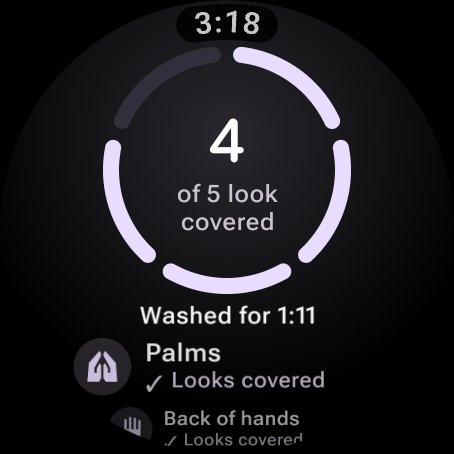
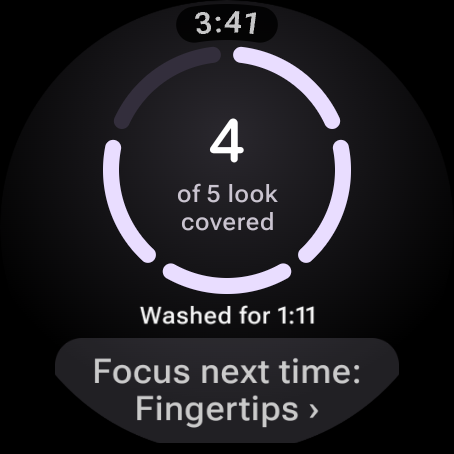
feat(ui): coaching critique fixes, why lines, cancel handling
Target check 'Still to do', Focus Step card above rows, covered Steps collapsed,
technique line on the guide, label/value Credits, toast on cancelled Wash.
Fix Wash screen stuck on stopping after a cancel and dead Wash screen after
backing out of a guide. Retake docs/ux screenshots.

Changed region(s): [[0.1233, 0.7401, 0.8943, 0.9868], [0.4934, 0.0, 0.5859, 0.0925]]

diff --git a/wear/src/main/java/com/hapticwash/ui/MainActivity.kt b/wear/src/main/java/com/hapticwash/ui/MainActivity.kt
@@ -3,6 +3,7 @@ package com.hapticwash.ui
 import android.Manifest
 import android.app.PendingIntent
 import android.content.Context
+import android.widget.Toast
 import android.content.Intent
 import android.content.res.Resources
 import android.content.pm.PackageManager
@@ -349,6 +350,7 @@ private object StartOrigin {
 @Composable
 fun App(startRequests: () -> Int = { 0 }, openRequest: () -> Long? = { null }, onOpened: () -> Unit = {}, ambient: () -> Ambient? = { null }) {
     val nav = rememberSwipeDismissableNavController()
+    val context = LocalContext.current
     val running by WashService.status.collectAsState()
     val ambientNow = ambient().takeIf { running.running }
     var answered by rememberSaveable { mutableIntStateOf(0) }
@@ -378,7 +380,10 @@ fun App(startRequests: () -> Int = { 0 }, openRequest: () -> Long? = { null }, o
                         onAutoStarted = { answered = startRequests() },
                     )
                 }
-                composable(Routes.WASH) { WashScreen(onGuide = { nav.navigate(Routes.guide(it)) }) }
+                composable(Routes.WASH) { WashScreen(onGuide = { nav.navigate(Routes.guide(it)) }, onCancelled = {
+                    nav.popBackStack(Routes.START, inclusive = false)
+                    Toast.makeText(context, R.string.wash_cancelled, Toast.LENGTH_LONG).show()
+                }) }
                 composable(Routes.HISTORY) { HistoryScreen(onOpen = { nav.navigate(Routes.summary(it)) }) }
                 composable(Routes.SUMMARY) { SummaryScreen(it.arguments?.getString("id")?.toLongOrNull(), onGuide = { l -> nav.navigate(Routes.guide(l)) }) }
                 composable(Routes.GUIDE) { GuideScreen(it.arguments?.getString("label")?.toIntOrNull()) }
@@ -616,14 +621,16 @@ private fun StartScreen(onWash: () -> Unit, onHistory: () -> Unit, onSettings: (
  * new screen, so the ring and the stop square can carry across it. Swiping back from either goes to Start.
  */
 @Composable
-private fun WashScreen(onGuide: (Int) -> Unit) {
-    var result by remember { mutableStateOf<Long?>(null) }
-    val leave = remember { Animatable(0f) }
+private fun WashScreen(onGuide: (Int) -> Unit, onCancelled: () -> Unit = {}) {
+    // Saved, so coming back from a Step guide opened off this Summary lands on the Summary, not a Wash that has ended.
+    var result by rememberSaveable { mutableStateOf<Long?>(null) }
+    val fresh = remember { result == null } // false when restored: no ring morph replayed
+    val leave = remember { Animatable(if (result != null) 1f else 0f) }
     LaunchedEffect(result) { if (result != null) leave.animateTo(1f, tween(200)) }
     Box(Modifier.fillMaxSize()) {
         // Gone once faded: nothing under the Summary should take a press.
-        if (leave.value < 1f) Box(Modifier.fillMaxSize().graphicsLayer { alpha = 1 - leave.value }) { WashBody(onEnd = { result = it }, handedOver = result != null) }
-        result?.let { SummaryScreen(it, fromWash = true, onGuide = onGuide) }
+        if (leave.value < 1f) Box(Modifier.fillMaxSize().graphicsLayer { alpha = 1 - leave.value }) { WashBody(onEnd = { result = it }, handedOver = result != null, onCancelled = onCancelled) }
+        result?.let { SummaryScreen(it, fromWash = fresh, onGuide = onGuide) }
         if (result == null) TargetCheckCard()
     }
 }
@@ -643,17 +650,17 @@ private fun TargetCheckCard() {
     if (undetected.isEmpty() || dismissed) return
     val steps = stringArrayResource(R.array.steps)
     Column(
-        Modifier.fillMaxSize().background(MaterialTheme.colorScheme.background).clickable { dismissed = true }.padding(24.dp),
-        verticalArrangement = Arrangement.spacedBy(6.dp, Alignment.CenterVertically),
+        Modifier.fillMaxSize().background(MaterialTheme.colorScheme.background).clickable { dismissed = true }.padding(horizontal = 24.dp, vertical = 36.dp),
+        verticalArrangement = Arrangement.spacedBy(10.dp, Alignment.CenterVertically),
         horizontalAlignment = Alignment.CenterHorizontally,
     ) {
-        Text(stringResource(R.string.status_not_detected), style = MaterialTheme.typography.titleSmall, textAlign = TextAlign.Center)
+        Text(stringResource(R.string.target_todo), color = MaterialTheme.colorScheme.onSurfaceVariant, style = MaterialTheme.typography.labelMedium, textAlign = TextAlign.Center)
         // One left edge for the icons, so the names line up whatever their width.
         Column(verticalArrangement = Arrangement.spacedBy(6.dp), horizontalAlignment = Alignment.Start) {
             undetected.forEach {
                 Row(horizontalArrangement = Arrangement.spacedBy(8.dp), verticalAlignment = Alignment.CenterVertically) {
-                    Icon(painterResource(STEP_ICONS[it - 1]), contentDescription = null, Modifier.size(24.dp))
-                    Text(steps[it - 1], style = MaterialTheme.typography.bodyMedium)
+                    Icon(painterResource(STEP_ICONS[it - 1]), contentDescription = null, Modifier.size(28.dp), tint = MaterialTheme.colorScheme.primary)
+                    Text(steps[it - 1], style = MaterialTheme.typography.titleMedium)
                 }
             }
         }
@@ -661,10 +668,11 @@ private fun TargetCheckCard() {
 }
 
 private const val TARGET_CARD_MS = 6_000L
+private const val CANCEL_GRACE_MS = 600L
 
 /** Elapsed time, optional progress ring, hold to stop. Never names a Step. */
 @Composable
-private fun WashBody(onEnd: (Long) -> Unit, handedOver: Boolean) {
+private fun WashBody(onEnd: (Long) -> Unit, handedOver: Boolean, onCancelled: () -> Unit) {
     val context = LocalContext.current
     val status by WashService.status.collectAsState()
     val last by WashService.lastWash.collectAsState()
@@ -674,6 +682,15 @@ private fun WashBody(onEnd: (Long) -> Unit, handedOver: Boolean) {
         // The save is quick; a hold gets a beat for its commit to be seen first.
         if (StopHold.committed) delay((COMMIT_BEAT_MS - (System.currentTimeMillis() - StopHold.committedAt)).coerceAtLeast(0))
         onEnd(ended.id)
+    }
+    // A Wash that never began is cancelled and saved nowhere, so no Summary follows: the service just stops running. Leave then, or the stop hold waits for a save that never comes.
+    var sawRunning by remember { mutableStateOf(false) }
+    val handed by rememberUpdatedState(handedOver)
+    LaunchedEffect(status.running) {
+        if (status.running) { sawRunning = true; return@LaunchedEffect }
+        if (!sawRunning) return@LaunchedEffect
+        delay(CANCEL_GRACE_MS) // a normal end publishes its Wash first and the effect above hands over
+        if (!handed) onCancelled()
     }
     val ring = remember { Settings(context).progressRing }
     // The Summary draws the ring and the stop square from here on, shrinking them into its own; these must not double them.
@@ -930,8 +947,24 @@ private fun SummaryScreen(id: Long?, fromWash: Boolean = false, onGuide: (Int) -
                 !wash.coverageShown -> item { Notice(stringResource(R.string.too_short), morphContent(spec)) }
                 else -> {
                     item { Notice(stringResource(if (allCovered(wash.coverage)) R.string.washed_for_all else R.string.washed_for, duration(wash.durationS)), morphContent(spec)) }
-                    items(wash.coverage.size) { i ->
-                        val c = wash.coverage[i]
+                    // The Focus Step first: one estimate-language card, opening the same guide as a row.
+                    focus?.let { label ->
+                        item {
+                            Box(
+                                morphContent(spec).clip(RoundedCornerShape(16.dp)).background(colors.primary.copy(alpha = 0.18f))
+                                    .clickable(onClickLabel = stringResource(R.string.open_guide, steps[label - 1]), role = Role.Button) { onGuide(label) }
+                                    .heightIn(min = 48.dp).padding(horizontal = 16.dp, vertical = 8.dp),
+                                contentAlignment = Alignment.Center,
+                            ) {
+                                Text("${stringResource(R.string.focus_step, steps[label - 1])} ›", style = MaterialTheme.typography.labelLarge, textAlign = TextAlign.Center)
+                            }
+                        }
+                    }
+                    // Only Steps that need attention get a row; the covered ones are one line, since they all say the same.
+                    // Everything covered: all five stay as rows, so every Step's guide is still one tap away.
+                    val attention = wash.coverage.filter { it.status != StepStatus.OK }.ifEmpty { wash.coverage }
+                    items(attention.size) { i ->
+                        val c = attention[i]
                         val rise = with(LocalDensity.current) { 6.dp.toPx() }
                         // Each Step has its own glyph, so a row is found by shape; colour only adds emphasis.
                         Row(
@@ -942,11 +975,7 @@ private fun SummaryScreen(id: Long?, fromWash: Boolean = false, onGuide: (Int) -
                             }.clip(RoundedCornerShape(16.dp)).clickable(onClickLabel = stringResource(R.string.open_guide, steps[c.label - 1]), role = Role.Button) { onGuide(c.label) }
                                 .heightIn(min = 48.dp).padding(horizontal = 16.dp).semantics(mergeDescendants = true) {},
                             horizontalArrangement = Arrangement.spacedBy(8.dp), verticalAlignment = Alignment.CenterVertically) {
-                            // A soft chip behind the glyph, tinted only when the Step looks covered; the words and the mark say the rest.
-                            Box(
-                                Modifier.size(32.dp).clip(CircleShape).background(if (c.status == StepStatus.OK) colors.primary.copy(alpha = 0.18f) else colors.surfaceContainer).clearAndSetSemantics {},
-                                contentAlignment = Alignment.Center,
-                            ) {
+                            Box(Modifier.size(32.dp).clip(CircleShape).background(if (c.status == StepStatus.OK) colors.primary.copy(alpha = 0.18f) else colors.surfaceContainer).clearAndSetSemantics {}, contentAlignment = Alignment.Center) {
                                 Icon(painterResource(STEP_ICONS[c.label - 1]), null, Modifier.size(20.dp), tint = if (c.status == StepStatus.OK) colors.primary else colors.onSurfaceVariant)
                             }
                             Column {
@@ -959,18 +988,9 @@ private fun SummaryScreen(id: Long?, fromWash: Boolean = false, onGuide: (Int) -
                             }
                         }
                     }
-                    // The Focus Step: at most one estimate-language line, opening the same guide as its row.
-                    focus?.let { label ->
-                        item {
-                            Box(
-                                morphContent(spec).clip(RoundedCornerShape(16.dp))
-                                    .clickable(onClickLabel = stringResource(R.string.open_guide, steps[label - 1]), role = Role.Button) { onGuide(label) }
-                                    .heightIn(min = 48.dp).padding(horizontal = 16.dp, vertical = 8.dp),
-                                contentAlignment = Alignment.Center,
-                            ) {
-                                Text(stringResource(R.string.focus_step, steps[label - 1]), color = colors.onSurfaceVariant, style = MaterialTheme.typography.bodySmall, textAlign = TextAlign.Center)
-                            }
-                        }
+                    val covered = wash.coverage.filter { it.status == StepStatus.OK }
+                    if (covered.isNotEmpty() && attention.size < wash.coverage.size) item {
+                        Text(stringResource(R.string.covered_steps, covered.joinToString(", ") { steps[it.label - 1] }), morphContent(spec), color = colors.onSurfaceVariant, style = MaterialTheme.typography.bodySmall, textAlign = TextAlign.Center)
                     }
                 }
             }
@@ -997,13 +1017,14 @@ private fun GuideScreen(label: Int?) {
     val colors = MaterialTheme.colorScheme
     ScreenScaffold {
         Column(
-            Modifier.fillMaxSize().padding(horizontal = 28.dp).semantics(mergeDescendants = true) {},
+            Modifier.fillMaxSize().padding(start = 28.dp, end = 28.dp, top = 22.dp, bottom = 8.dp).semantics(mergeDescendants = true) {},
             verticalArrangement = Arrangement.spacedBy(8.dp, Alignment.CenterVertically),
             horizontalAlignment = Alignment.CenterHorizontally,
         ) {
             Text(stringArrayResource(R.array.steps)[label - 1], style = MaterialTheme.typography.titleMedium, textAlign = TextAlign.Center)
-            Image(painterResource(STEP_ART[label - 1]), null, Modifier.size(100.dp).clip(CircleShape))
-            Text(stringArrayResource(R.array.step_whys)[label - 1], color = colors.onSurfaceVariant, style = MaterialTheme.typography.bodySmall, textAlign = TextAlign.Center)
+            Image(painterResource(STEP_ART[label - 1]), null, Modifier.size(68.dp).clip(CircleShape))
+            Text(stringArrayResource(R.array.step_how)[label - 1], style = MaterialTheme.typography.bodyMedium, textAlign = TextAlign.Center)
+            Text(stringArrayResource(R.array.step_whys)[label - 1], color = colors.onSurfaceVariant, style = MaterialTheme.typography.labelSmall, textAlign = TextAlign.Center)
         }
     }
 }
@@ -1057,7 +1078,14 @@ private fun CreditsScreen() {
     ListScreen(backdrop = false) { spec ->
         item { Header(spec, stringResource(R.string.credits)) }
         // The URL has no spaces; a zero-width space after "/" and "_" lets it wrap on the round edge instead of mid-word.
-        item { Notice(stringResource(R.string.credits_body).replace("/", "/\u200B").replace("_", "_\u200B"), morphContent(spec)) }
+        item {
+            Column(morphContent(spec).fillMaxWidth().padding(horizontal = 12.dp), verticalArrangement = Arrangement.spacedBy(2.dp)) {
+                Text(stringResource(R.string.credits_illustrations), color = MaterialTheme.colorScheme.onSurfaceVariant, style = MaterialTheme.typography.labelSmall)
+                Text(stringResource(R.string.credits_author), style = MaterialTheme.typography.bodyMedium)
+                Text(stringResource(R.string.credits_licence), style = MaterialTheme.typography.bodySmall)
+                Text(stringResource(R.string.credits_body).substringAfter("cropped. ").substringAfter("recortadas. ").replace("/", "/\u200B").replace("_", "_\u200B"), Modifier.padding(top = 6.dp), color = MaterialTheme.colorScheme.onSurfaceVariant, style = MaterialTheme.typography.labelSmall)
+            }
+        }
     }
 }
 

diff --git a/wear/src/test/java/com/hapticwash/ui/StepGuideTest.kt b/wear/src/test/java/com/hapticwash/ui/StepGuideTest.kt
@@ -40,24 +40,24 @@ class StepGuideTest {
     }
 
     @Test
-    fun whyLinesAreShortEvidenceLanguage() {
+    fun whyLinesSayWhyTheStepMattersInPlainLanguage() {
         val lines = array("step_whys")
         assertEquals(5, lines.size)
         lines.forEach { assertTrue("too long: $it", it.length <= 60) }
-        lines.drop(1).forEach { assertTrue("no study named: $it", "study" in it) }
-        assertFalse("Fingertips is contested (Szilagyi 2013)", lines[4].contains("most", ignoreCase = true))
-        assertTrue(lines[3].startsWith("Thumbs"))
+        lines.forEach { assertFalse("no study statistics: $it", "study" in it || Regex("""\d""").containsMatchIn(it)) }
+        assertTrue("Thumbs line names thumbs", "Thumbs" in lines[3])
+        assertTrue("Between fingers line names the fingers", "between fingers" in lines[2])
     }
 
     @Test
     fun spanishWhyLinesMatchTheAgreedWording() {
         assertEquals(
             listOf(
-                "Palmas: casi nunca se omiten, pero es solo el primer paso",
-                "Dorso: en un estudio, más de la mitad omitió una zona",
-                "Entre los dedos: cerca de 1 de cada 4 la omitió en un estudio",
-                "Pulgares: la zona más omitida en un estudio de 705 personas",
-                "Puntas: cerca de la mitad omitió alguna en un estudio",
+                "Las palmas manejan más cosas, así que recogen más",
+                "El dorso también toca cosas, pero las palmas no lo alcanzan",
+                "Lo que tocas queda atrapado entre los dedos y sin frotar",
+                "Los pulgares agarran todo, así que recogen lo que tocas",
+                "Las puntas tocan primero y solo reciben jabón si las diriges",
             ),
             array("step_whys", "values-es"),
         )

diff --git a/docs/UX_AUDIT.md b/docs/UX_AUDIT.md
@@ -403,3 +403,15 @@ the researcher's reading.
 The merged manifest has no `INTERNET` permission (the only hit is a comment; `ManifestTest`).
 Replaying a labelled session with a Step missing past 40 s showed the card once, over the
 running Wash; the Wash then ended to its Summary.
+
+## Coaching follow-up (2026-10-18)
+
+Critique fixes, retaken on the AVD (zhang_who_3 and _5 replays at 4x, Target check at the real 40 s):
+Target check "Still to do", Focus Step card above the rows, covered Steps as one line (all five stay as
+rows when everything is covered), technique line first on the Guide, label/value Credits, and a toast
+when a Wash is cancelled ([wash_cancelled](ux/wash_cancelled.png)). Fixed on the way: the Wash screen
+no longer sticks on "stopping" after a cancel, and backing out of a guide opened from a fresh Summary
+returns to that Summary instead of a dead Wash screen.
+Retaken: summary_coaching (+scrolled), summary_mixed (+scrolled), target_check, guide_fingertips (+
+_from_focus), guide_between_fingers, credits (+scrolled). Not retaken (still the old layout): guide_palms,
+guide_back_of_hands, guide_thumbs, guide_thumbs_from_focus, guide_between_fingers_es, credits_es, summary_focus_step is now a scrolled Summary.
